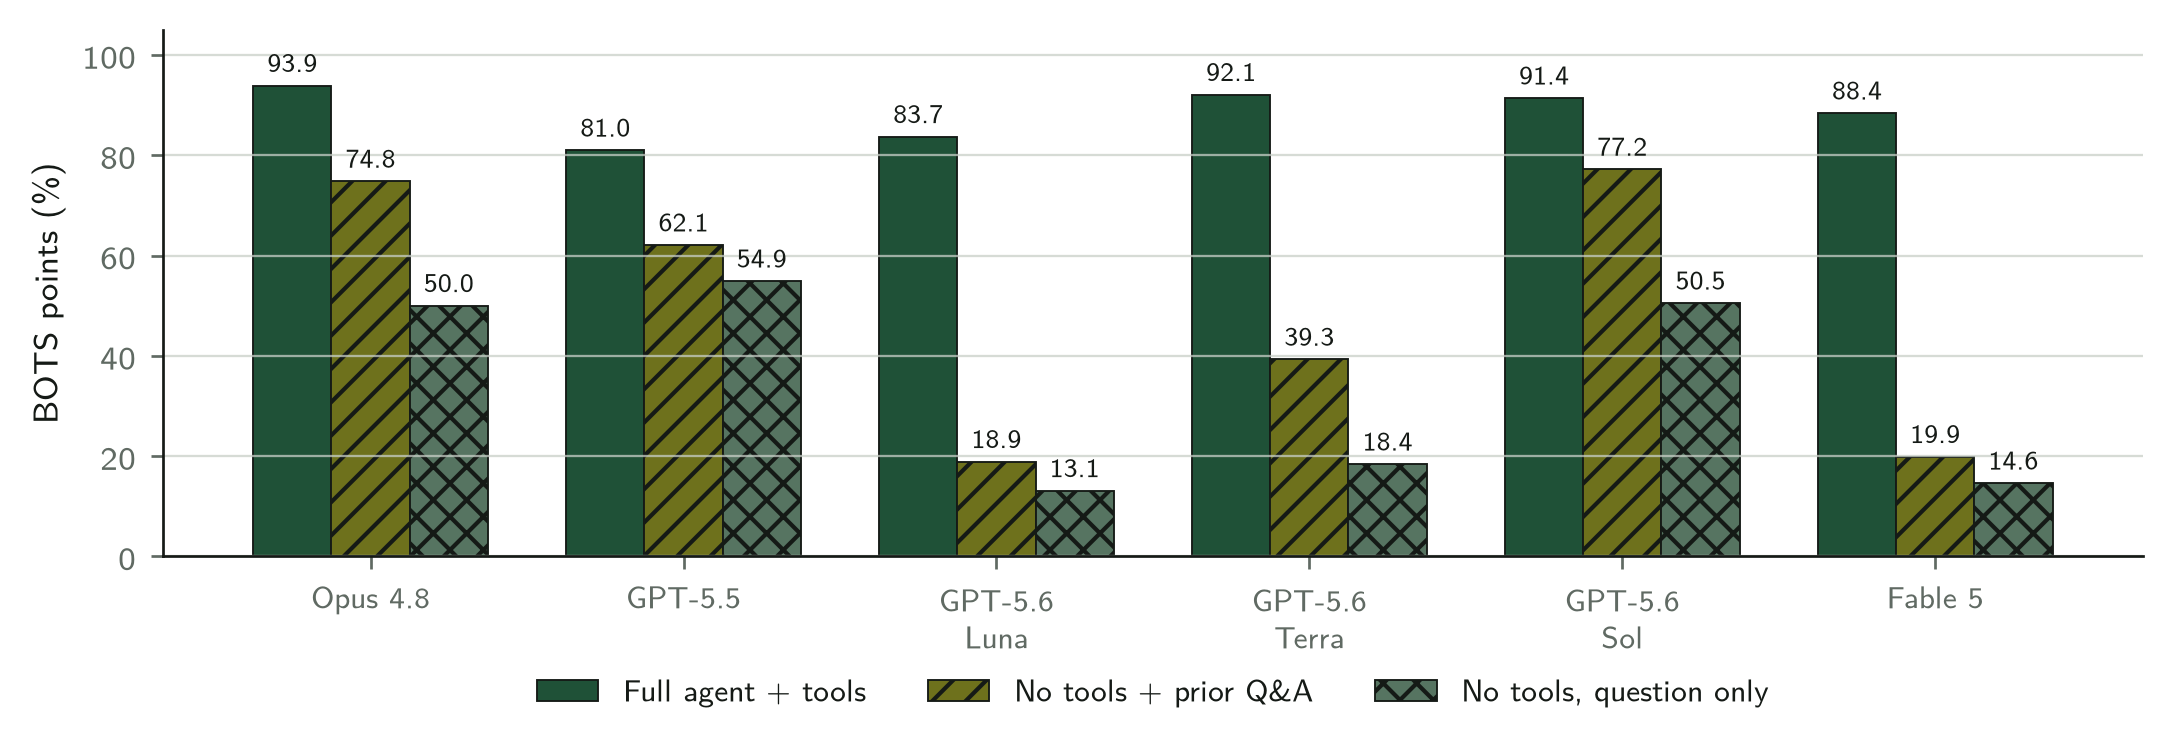
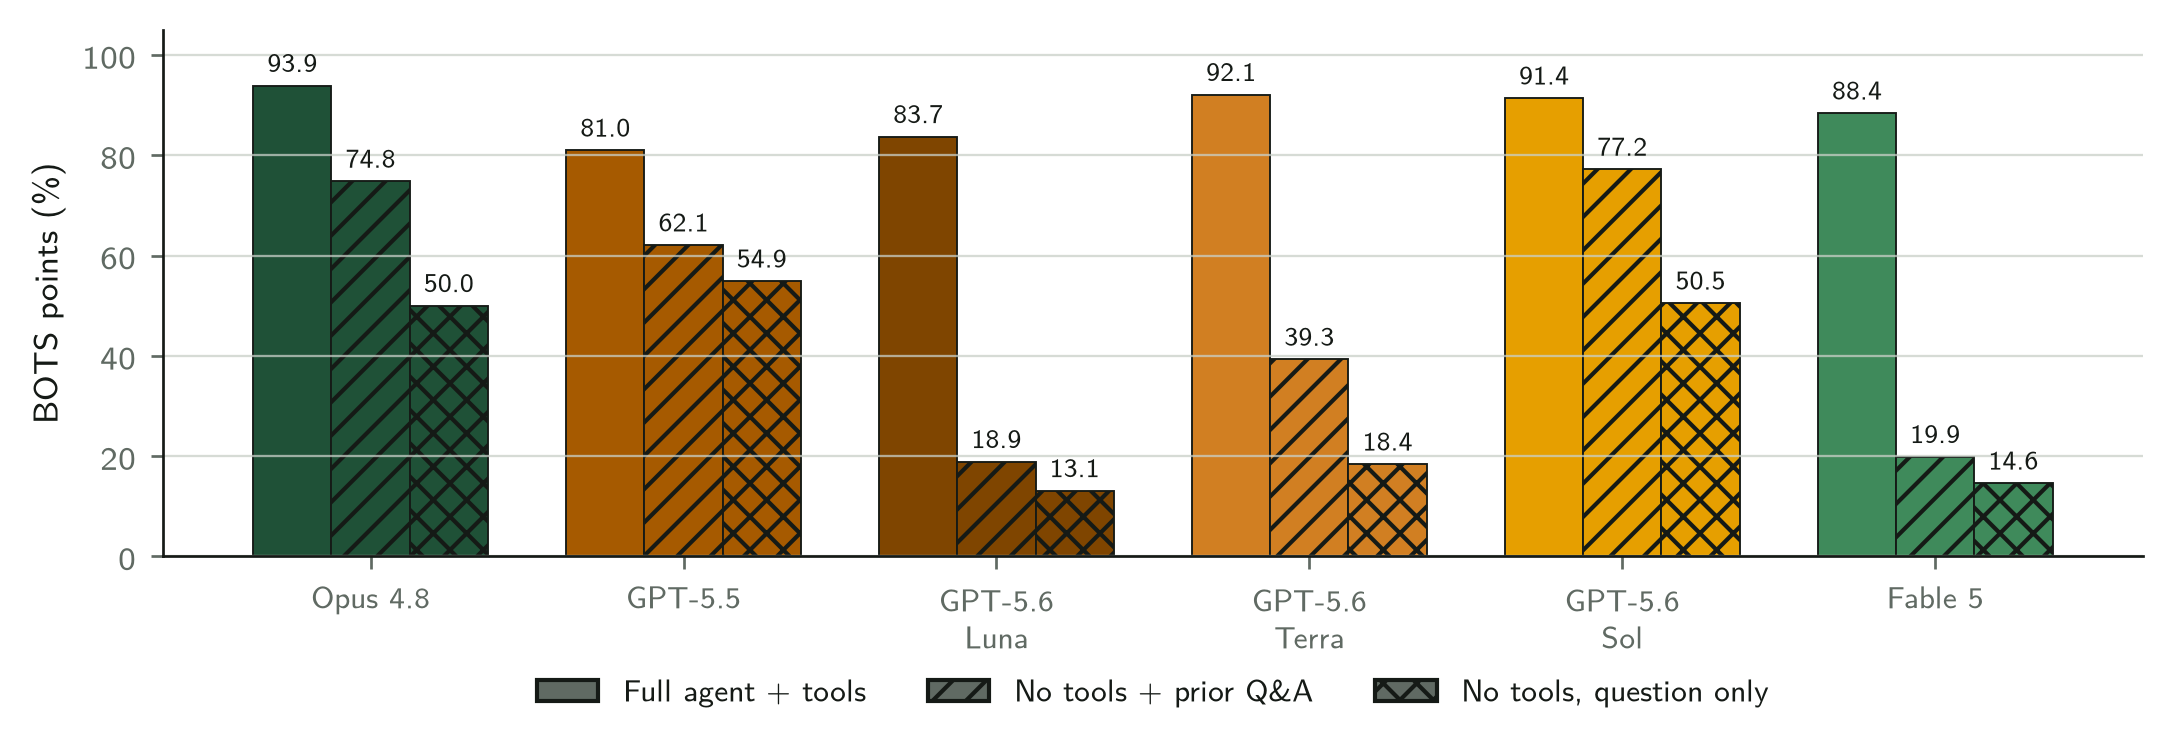
Apply family colors to comparison figures

diff --git a/scripts/generate_charts.py b/scripts/generate_charts.py
@@ -23,7 +23,7 @@ MUTED, RULE, WASH = "#606A63", "#C9D0C8", "#F2F5EA"
 # Model families use distinct hues; variants stay recognizable by shade.
 ANTHROPIC = {"opus48": FOREST, "opus47": LEAF, "fable": "#3F8A5B"}
 OPENAI = {"gpt55": "#A65A00", "gpt55_high": "#C77700",
-          "sol": "#E69F00", "luna": "#7F4500"}
+          "sol": "#E69F00", "terra": "#D17F22", "luna": "#7F4500"}
 DEEPSEEK = {"flash": "#2563A8", "flash_high": "#5B8DB8", "pro": "#174A7A"}
 KIMI = "#7A5195"
 TAB = {"blue": (31,119,180), "orange": (255,127,14), "green": (44,160,44),
@@ -32,7 +32,8 @@ TAB = {"blue": (31,119,180), "orange": (255,127,14), "green": (44,160,44),
 COLORS = {"Opus 4.8": ANTHROPIC["opus48"], "Opus 4.7": ANTHROPIC["opus47"],
           "Fable 5": ANTHROPIC["fable"], "GPT-5.5": OPENAI["gpt55"],
           "GPT-5.5 high": OPENAI["gpt55_high"], "GPT-5.6 Sol": OPENAI["sol"],
-          "GPT-5.6 Luna": OPENAI["luna"], "DeepSeek Flash": DEEPSEEK["flash"],
+          "GPT-5.6 Terra": OPENAI["terra"], "GPT-5.6 Luna": OPENAI["luna"],
+          "DeepSeek Flash": DEEPSEEK["flash"],
           "DeepSeek Flash $4.20": DEEPSEEK["flash_high"],
           "DeepSeek Pro": DEEPSEEK["pro"], "Kimi K2.6": KIMI}
 DISPLAY = {"Opus 4.8": "Claude Opus 4.8", "Opus 4.7": "Claude Opus 4.7",
@@ -340,17 +341,21 @@ def decontamination():
     vals=np.array([[93.9,74.8,50.0],[81.0,62.1,54.9],[83.7,18.9,13.1],
                    [92.1,39.3,18.4],[91.4,77.2,50.5],[88.4,19.9,14.6]])
     labels=["Full agent + tools","No tools + prior Q&A","No tools, question only"]
-    colors=[FOREST,OLIVE,LEAF]
     hatches=[None,"///","xxx"]
+    model_colors=[COLORS[key] for key in
+                  ["Opus 4.8","GPT-5.5","GPT-5.6 Luna","GPT-5.6 Terra","GPT-5.6 Sol","Fable 5"]]
     x=np.arange(len(models)); width=.25
     fig,ax=plt.subplots(figsize=(7.25,2.7))
-    for i,(label,color,hatch) in enumerate(zip(labels,colors,hatches)):
-        bars=ax.bar(x+(i-1)*width,vals[:,i],width,label=label,color=color,
+    for i,hatch in enumerate(hatches):
+        bars=ax.bar(x+(i-1)*width,vals[:,i],width,color=model_colors,
                     hatch=hatch,edgecolor=INK,linewidth=.45)
         ax.bar_label(bars,labels=[f"{v:.1f}" for v in vals[:,i]],padding=2,fontsize=6.5)
     style(ax,"","BOTS points (%)")
     ax.set_ylim(0,105); ax.set_xticks(x,models,fontsize=7.4)
-    ax.legend(loc="lower center",bbox_to_anchor=(.5,-.34),ncol=3,fontsize=7.4,**LEGEND_BOX)
+    condition_handles=[mpl.patches.Patch(facecolor=MUTED,hatch=hatch,
+                       edgecolor=INK,label=label) for label,hatch in zip(labels,hatches)]
+    ax.legend(handles=condition_handles,loc="lower center",bbox_to_anchor=(.5,-.34),
+              ncol=3,fontsize=7.4,**LEGEND_BOX)
     fig.subplots_adjust(left=.085,right=.995,top=.95,bottom=.30)
     finish(fig,"botsv1_decontamination")
 
@@ -366,12 +371,13 @@ def refusals():
     ]
     fig,axs=plt.subplots(1,2,figsize=(7.25,3.05))
     for i,(ax,(bench,names,perf,ref,counts)) in enumerate(zip(axs,groups)):
-        y=np.arange(len(names)); ax.barh(y,perf,color=FOREST,height=.56)
+        y=np.arange(len(names)); model_colors=[COLORS[name] for name in names]
+        ax.barh(y,perf,color=model_colors,height=.56)
         rates = np.asarray(ref)
         # BOTS v1 refusal events can coexist with earned points, so overlay the
         # hatch within the performance bar; Cybench refusals remain stacked failures.
         left = np.maximum(np.asarray(perf)-rates, 0) if bench == "BOTS v1" else perf
-        ax.barh(y,rates,left=left,color=OLIVE,height=.56,hatch="///",
+        ax.barh(y,rates,left=left,color=model_colors,height=.56,hatch="///",
                 edgecolor="white",linewidth=.3)
         ax.set(yticks=y,yticklabels=names,
                xlim=(0,100 if bench == "BOTS v1" else 118),
@@ -388,9 +394,9 @@ def refusals():
             else:
                 ax.text(101.5,yi,f"{p:.1f}% · ref {count}",va="center",
                         fontsize=7.4,color=MUTED)
-    fig.legend([mpl.patches.Patch(color=FOREST),
-                mpl.patches.Patch(facecolor=OLIVE,hatch="///")],
-               ["Performance","Refusal events"],
+    fig.legend([mpl.patches.Patch(color=MUTED),
+                mpl.patches.Patch(facecolor=MUTED,hatch="///")],
+               ["Completed Challenges","Refused Challenges"],
                loc="lower center",ncol=3,fontsize=7.5,**LEGEND_BOX)
     fig.subplots_adjust(left=.14,right=.995,top=.92,bottom=.22,wspace=.36)
     finish(fig,"gpt56_comparison_with_refusals")